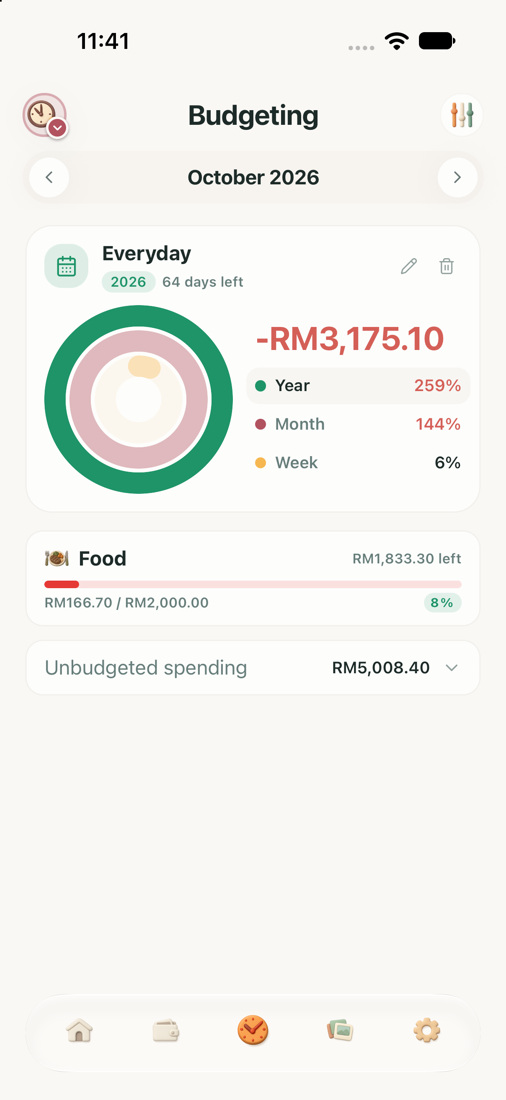
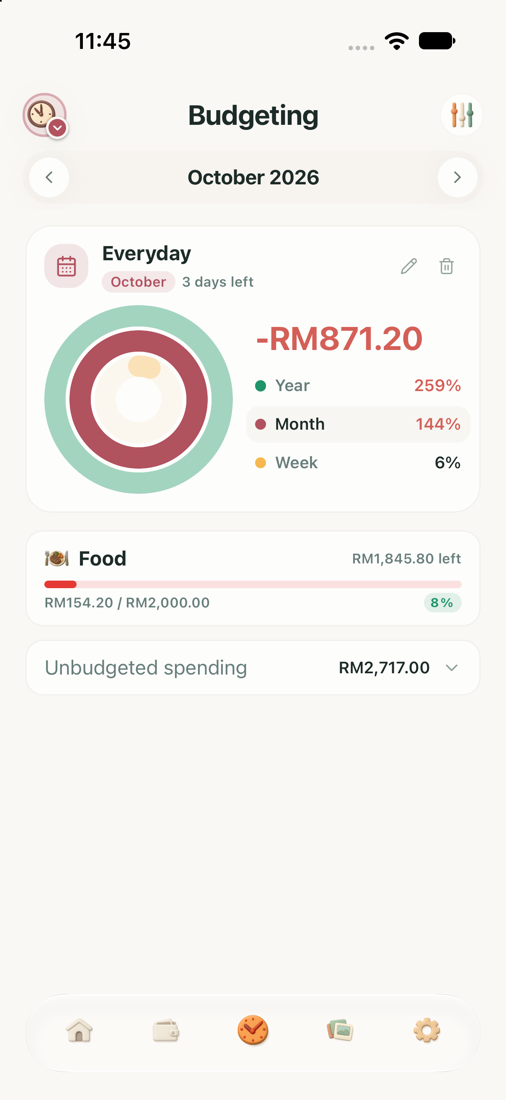
Review: speak each budget line's figures, fill over-budget bars, warn amber on subcategories

diff --git a/apps/mobile/features/budget/screens/BudgetScreen.tsx b/apps/mobile/features/budget/screens/BudgetScreen.tsx
@@ -80,6 +80,12 @@ function leftLabel(remaining: number, settings: UserSettings): string {
     : I18n.t('budget.left', { amount: money(remaining, settings) });
 }
 
+/** How full a line's bar is: its usage, or full once over (a zero-budget
+ *  overspend has a usage ratio of 0). */
+function lineFill(line: BudgetCategoryProgress): number {
+  return line.isOver ? 1 : Math.max(0, Math.min(line.usageRatio, 1));
+}
+
 function ProgressBar({
   ratio,
   color,
@@ -121,8 +127,9 @@ function BudgetChildRow({
   onPress: () => void;
 }) {
   const category = categoriesById.get(line.categoryId);
+  const name = category?.name ?? I18n.t('common.uncategorized');
   const fillColor = line.isOver ? themeColors.error : color;
-  const fillPct = Math.max(0, Math.min(line.usageRatio, 1)) * 100;
+  const fillPct = lineFill(line) * 100;
 
   return (
     <View className="flex-row items-center gap-2">
@@ -132,7 +139,7 @@ function BudgetChildRow({
       <Pressable
         onPress={onPress}
         accessibilityRole="button"
-        accessibilityLabel={category?.name ?? I18n.t('common.uncategorized')}
+        accessibilityLabel={`${name}, ${leftLabel(line.remaining, settings)}`}
         className="relative min-w-0 flex-1 overflow-hidden rounded-xl active:opacity-80"
         style={{ backgroundColor: withColorAlpha(fillColor, 0.08) }}
       >
@@ -152,13 +159,20 @@ function BudgetChildRow({
               parent's icon, which just repeated it on every child row. */}
           {category?.icon ? <CategoryEmoji icon={category.icon} size={13} /> : null}
           <Text variant="caption" numberOfLines={1} className="min-w-0 flex-1 text-foreground">
-            {category?.name ?? I18n.t('common.uncategorized')}
+            {name}
           </Text>
           <Text
             variant="caption"
             numberOfLines={1}
             className="shrink-0 text-right"
-            style={{ color: line.isOver ? themeColors.error : themeColors.mutedForeground }}
+            // Muted while healthy, amber from 80%, red when over.
+            style={{
+              color: line.isOver
+                ? themeColors.error
+                : line.usageRatio >= 0.8
+                  ? usageColor(line.usageRatio, themeColors)
+                  : themeColors.mutedForeground,
+            }}
           >
             {money(line.spent, settings)} / {money(line.budgeted, settings)}
           </Text>
@@ -179,7 +193,7 @@ function BudgetCategoryRow({
   onPressChild,
 }: {
   line: BudgetCategoryProgress;
-  /** Palette color for this category, shared with the breakdown pie. */
+  /** Chart palette colour, by the line's place in the budget. */
   color: string;
   first: boolean;
   categoriesById: Map<string, Category>;
@@ -191,6 +205,7 @@ function BudgetCategoryRow({
   onPressChild: (categoryId: string) => void;
 }) {
   const category = categoriesById.get(line.categoryId);
+  const name = category?.name ?? I18n.t('common.uncategorized');
   const barColor = line.isOver ? themeColors.error : color;
   // isOver wins so a zero-budget overspend (ratio 0) still reads red.
   const healthColor = line.isOver ? themeColors.error : usageColor(line.usageRatio, themeColors);
@@ -204,7 +219,7 @@ function BudgetCategoryRow({
       <Pressable
         onPress={onPress}
         accessibilityRole="button"
-        accessibilityLabel={category?.name ?? I18n.t('common.uncategorized')}
+        accessibilityLabel={`${name}, ${leftLabel(line.remaining, settings)}, ${usagePercentLabel(line.usageRatio)}`}
         className={cn('px-4 py-3 active:bg-secondary/20', line.children.length > 0 && 'pb-2')}
       >
         {/* Emoji inline with the title, then a full-width depletion bar with
@@ -214,7 +229,7 @@ function BudgetCategoryRow({
           <View className="flex-row items-center gap-2">
             <CategoryEmoji icon={category?.icon} size={20} />
             <Text variant="bodyStrong" numberOfLines={1} className="flex-1">
-              {category?.name ?? I18n.t('common.uncategorized')}
+              {name}
             </Text>
             <Text
               variant="caption"
@@ -228,7 +243,7 @@ function BudgetCategoryRow({
           </View>
           <View className="gap-1">
             <ProgressBar
-              ratio={line.usageRatio}
+              ratio={lineFill(line)}
               color={barColor}
               trackColor={withColorAlpha(barColor, 0.14)}
               height={6}

diff --git a/README.md b/README.md
@@ -483,7 +483,7 @@ Traditional Chinese is `zh-Hant`. Device tags for Taiwan, Hong Kong, and Macau s
   **Framing and crop.** The artwork is cover-fitted and centred in the card, so a closed card shows its middle band and opening it reveals the rest. Uploads skip the system crop (always square on iOS) for `CardDesignCropModal`: drag and pinch inside a window the exact width and shape of a card, with dashed lines marking the band a closed card shows. The photo is re-encoded once to apply EXIF rotation and cap it at 2400 px, then the frame is cut from it (`utils/cardDesignCrop.ts`) and saved at most 1200 px wide under the `card-designs` user-asset kind. The library is shared across accounts and reference-counted by the orphan sweep (`accounts.card_design` is in `collectReferencedAssetPaths`), like account logos: an upload no account wears is reclaimed by the next sweep, so "My uploads" holds the designs in use plus any picked since. Deleting an upload from the picker removes only the file: accounts still holding its id resolve to nothing and draw the plain card, and they redraw at once because `useCardDesignAppearance` subscribes to the upload store's revision (`subscribeCustomAssets`, bumped by every save, delete, sweep and restore). It deliberately does not rewrite those accounts, because an account write refreshes the list, which re-seeds the open account editor (losing its unsaved edits) and runs the orphan sweep over the rest of the library. A closed card shows the dashed band; inside a stack only its top 54 points, the name row, peek out, which the crop hint says.
 - **Loans (interest accrual)**: A loan is an account with `type: 'loan'`; the balance is the **principal outstanding**, and repayments are transfers into it. The balance is **not** the sum of its rows: `accountsRepository.getBalances` replaces it with the ledger walk `accrueReducingBalance` (`features/loans/lib/loanMath.ts`), which adds a month's interest at every monthly rest and takes each repayment off after it, so only the part of an instalment that is not interest retires principal. **Both interest models are walked**, flat and reducing alike: a flat contract's instalment carries interest too, and knocking the whole instalment off the principal (what the app did before) read a 5 year flat loan as 15 instalments in after 12 and as settled 7 early. The two models differ only in what the agreement fixes: `flat` fixes the total, so `leftToPay` is total less paid and `interestSaved` is null; `reducing` fixes the rate, so what is left is the live projection and paying ahead saves interest. The walk runs at the **unrounded** rate the agreement's total implies (`loanAccrualRatePercent`, via `contractMonthlyRate`), never the two-decimal `loan_interest_rate` column, because the projection and the walk are both sensitive to that rounding; on a flat loan the stored rate is already the effective one (the flat figure is never stored). It starts at `loanLedgerAnchor`: `loan_ledger_anchor_date` (migration `062`), which the editor sets on a new loan to the date of the last instalment already paid (`LoanQuote.openingBalanceDate`) so every rest falls on the payment day, falling back to `createdAt` for loans saved before the column. A **variable rate** (reducing) loan keeps `loan_rate_changes_json` (`LoanRateChange[]`, read through `loanRateChangesOf`): editing the rate on one that already has interest behind it asks whether the new rate applies **from today** (a base-rate move; the history gains an entry and every rest before it stands) or **from the start** (a correction; the history is cleared). `pendingLoanRateChange` (pure, in `loanMath.ts`) decides, reading a missing rate as 0% so a loan going interest-free is a change like any other; a history left on a loan saved as flat is cleared (`loanRateHistoryIsStale`), since the flat model never asks: its rate is fixed at signing. The editor shows the flat rate's **effective rate** as helper text under the rate field (`accounts.loan.effective_rate_hint`), which is the reducing-balance equivalent regulators quote (Malaysia's BNM moved hire purchase to EIR in 2026).
 - **Savings goals**: A goal is an account with `type: 'goal'` plus the `goal*` columns (target amount required, optional target date/emoji, achievement + archive stamps). Deposits/withdrawals are ordinary transfers; auto-save is a recurring transfer rule targeting the goal. Every balance-sign branch tests `type === 'credit'`, so goals inherit debit/asset semantics everywhere. Derived numbers come from the pure `computeGoalProgress`/`monthlyEquivalentRate` in `features/goals/lib/goalMath.ts`, composed by `useGoals()` (`features/goals/useGoals.ts`). Goals are a dedicated sub-tab of the assets page (`AssetsTab`: Accounts | Goals | Items) rendered by `GoalsScreen` (`features/goals/screens/GoalsScreen.tsx`), sharing the shell's balance-visibility toggle; the gated add button is `AddGoalButton`. `GoalDetail`/`GoalEditor` are root routes. Achievement detection is an AppContext effect that stamps `goalAchievedAt` once (celebration via `GoalCelebrationOverlay`); `setGoalArchived` deactivates auto-save rules on archive. Pro-limited to `FREE_MAX_SAVINGS_GOALS` (non-archived count); goal accounts do not count toward `FREE_MAX_ACCOUNTS`. Archived goals are hidden from `AccountPickerSheet`.
-- **Budgeting**: Weekly, monthly and yearly **expense-only** budgets built from reusable **budget templates** (`budget_templates`/`budget_template_categories`) — a template sets how often it repeats (`period`: `week`, `month` or `year`), a total plus per-root-category allocations, an optional emoji, and a `count_unbudgeted` toggle (whether spend in categories with no line counts toward the period total). Each week, month or year gets a **frozen** budget row (`monthly_budgets`/`monthly_budget_categories`; the table predates periods and keeps its name) copied from a template at creation; editing a template never rewrites already-created budgets, and soft-deleted rows double as **tombstones** so auto-create never resurrects a period the user deleted. **Periods** (`features/budget/lib/budgetPeriods.ts`): a row's `period` column says which, and its `month` column holds the period key — `YYYY-MM-DD` (the week's first day, per `settings.weekStartsOn`) for a week, `YYYY-MM` (a financial month, per the month cycle) for a month, `YYYY` (January–December, whatever the month cycle) for a year. The shapes never collide, and one live row is allowed per period and key (`idx_monthly_budgets_period_key`, migration `071_budget_periods`, which also gave every existing row and template `period = 'month'`). A week budget always covers its key day and the six after it. One made before the user changed the first day of the week keeps its own seven days: the pager shows it on the week its first day falls in (`budgetSlotKey`, titled with the budget's own dates; if two land on one week, the one keyed on it wins), while the widgets and Review find the running budget by its days (`budgetCoveringDay`), and auto-create and back-fill skip any week that shares a day with an existing one (`budgetWeekOverlaps`), so no overlapping week is made. Several periods can run at once (say a weekly food budget and a yearly travel budget). **Auto-create**: on every load, and right after a template of that period is saved, `autoCreateCurrentBudgets` in `AppContext` makes the running week's, month's and year's budget from that period's default template (`pickAutoCreateTemplate`) unless the period has or ever had one. Exactly one template **per period** is the default while that period has any (`budgetTemplatesRepository` re-normalizes after every create, update and delete; a template moved to another period leaves its default flag behind, so it becomes that period's default only when the period had none). Back-fill (offered when creating a template) fills the template's own period from the first expense to the last completed period. All screen/widget numbers come from the pure `buildBudgetSummary` in `features/budget/lib/budgetMath.ts`, valuing spend at `reportingAmount ?? amount` (never drifts with FX) and counting only spend inside the budget's own days. **UI**: the budget view is an **embedded Insights page** (`BudgetPagerView` inside `InsightsScreen`, chosen from the insights type menu, not a Settings tile). There is no period switch: the page pages by **month** (`computeBudgetPagerMonths`: from the first budget of any period or expense to 12 months ahead; the header's month capsule opens the month wheel), and each month page (`buildBudgetMonthPage`) shows every budget that touches the month, drawn as **nested activity-style rings** (thick, with a small empty centre) with the figures beside them: the year outside, the month in the middle, the week inside, each in its own colour (year `success`, month `primary`, week `accent`) and filled by how much of its budget is used (a period without a budget leaves a faint dashed ring). The month is in focus by default (else the week, else the year): its ring is drawn full strength, the others faded, and beside the rings sits only its amount: green while some is left, red with a minus sign once over (screen readers hear "RM580 left" / "RM40 over"), under a header naming it: the template's icon (or a calendar) on a tile tinted with the ring's colour, the budget's name, and a pill in that colour naming its period ("October", "Oct 26 – Nov 1", "2026") with the days left beside it while it runs, and edit and delete. Tapping a ring (hit-tested by distance from the centre, `ringAtDistance` in `features/budget/lib/budgetRings.ts`) or its row in the legend beside them (Year / Month / Week with each percent, the focused row highlighted) focuses that budget; with the week in focus, the month's budgeted weeks appear as date chips to move the inner ring to another week (by default it shows the running week, else the month's latest; a picked week stays on the inner ring while another ring is focused). Below, the focused budget's categories, each a row with its emoji, name and amount left (red when over), a full-width depletion bar in the category's chart colour (red when over; colours follow the budget's own line order, so a line keeps its colour when it goes over and is sorted first), spent / budgeted and a usage badge (green, amber from 80%, red when over), with its subcategory lines as tinted one-line pills under it whose fill is the progress; each opens its transactions. Unbudgeted spending is folded into one total row that expands. A month, week or year with a template of its period but no budget gets a dashed "No budget for …" row (for weeks, the running week when it is in the month, else the month's first); a month nothing touches keeps the classic empty state. Week titles name the years when the week is outside this year or spans two. The template editor's Repeats switch sets the period (with a hint such as "A new budget starts every Monday") and relabels the total, the back-fill and the count-unbudgeted copy; the templates screen groups templates by period, each group with its own default; the template picker on the page offers only templates of the shown period. Template/period/allocation editors are root-stack routes (`BudgetTemplateEditor`, `BudgetPeriodEditor`, `BudgetCategoryAllocation`, `SettingsBudgetTemplates`). Root allocations must sum exactly to the total; a root's subcategory breakdown is optional and may be **partial** (the unassigned rest stays on the parent line, which keeps its full amount and rolled-up spend). Save is blocked only when the subcategories exceed their parent (`childAllocationExceedsParent`). Pro-limited to `FREE_MAX_BUDGET_TEMPLATES` templates across all periods (the page's Create template button checks it too); two home-screen widgets (`budget_ring`, `budget_breakdown`) show the running month's budget, else the week's, else the year's, and count today in their days left, as the page does. Review's pace card compares a week, month or year with the budget of the same period. The Web Dashboard knows monthly budgets only: the phone sends it monthly templates and month budgets alone (`services/webDashboardBudgets.ts`), and its edits can only make or change monthly ones. Manage via `useApp()` budget ops.
+- **Budgeting**: Weekly, monthly and yearly **expense-only** budgets built from reusable **budget templates** (`budget_templates`/`budget_template_categories`) — a template sets how often it repeats (`period`: `week`, `month` or `year`), a total plus per-root-category allocations, an optional emoji, and a `count_unbudgeted` toggle (whether spend in categories with no line counts toward the period total). Each week, month or year gets a **frozen** budget row (`monthly_budgets`/`monthly_budget_categories`; the table predates periods and keeps its name) copied from a template at creation; editing a template never rewrites already-created budgets, and soft-deleted rows double as **tombstones** so auto-create never resurrects a period the user deleted. **Periods** (`features/budget/lib/budgetPeriods.ts`): a row's `period` column says which, and its `month` column holds the period key — `YYYY-MM-DD` (the week's first day, per `settings.weekStartsOn`) for a week, `YYYY-MM` (a financial month, per the month cycle) for a month, `YYYY` (January–December, whatever the month cycle) for a year. The shapes never collide, and one live row is allowed per period and key (`idx_monthly_budgets_period_key`, migration `071_budget_periods`, which also gave every existing row and template `period = 'month'`). A week budget always covers its key day and the six after it. One made before the user changed the first day of the week keeps its own seven days: the pager shows it on the week its first day falls in (`budgetSlotKey`, titled with the budget's own dates; if two land on one week, the one keyed on it wins), while the widgets and Review find the running budget by its days (`budgetCoveringDay`), and auto-create and back-fill skip any week that shares a day with an existing one (`budgetWeekOverlaps`), so no overlapping week is made. Several periods can run at once (say a weekly food budget and a yearly travel budget). **Auto-create**: on every load, and right after a template of that period is saved, `autoCreateCurrentBudgets` in `AppContext` makes the running week's, month's and year's budget from that period's default template (`pickAutoCreateTemplate`) unless the period has or ever had one. Exactly one template **per period** is the default while that period has any (`budgetTemplatesRepository` re-normalizes after every create, update and delete; a template moved to another period leaves its default flag behind, so it becomes that period's default only when the period had none). Back-fill (offered when creating a template) fills the template's own period from the first expense to the last completed period. All screen/widget numbers come from the pure `buildBudgetSummary` in `features/budget/lib/budgetMath.ts`, valuing spend at `reportingAmount ?? amount` (never drifts with FX) and counting only spend inside the budget's own days. **UI**: the budget view is an **embedded Insights page** (`BudgetPagerView` inside `InsightsScreen`, chosen from the insights type menu, not a Settings tile). There is no period switch: the page pages by **month** (`computeBudgetPagerMonths`: from the first budget of any period or expense to 12 months ahead; the header's month capsule opens the month wheel), and each month page (`buildBudgetMonthPage`) shows every budget that touches the month, drawn as **nested activity-style rings** (thick, with a small empty centre) with the figures beside them: the year outside, the month in the middle, the week inside, each in its own colour (year `success`, month `primary`, week `accent`) and filled by how much of its budget is used (a period without a budget leaves a faint dashed ring). The month is in focus by default (else the week, else the year): its ring is drawn full strength, the others faded, and beside the rings sits only its amount: green while some is left, red with a minus sign once over (screen readers hear "RM580 left" / "RM40 over"), under a header naming it: the template's icon (or a calendar) on a tile tinted with the ring's colour, the budget's name, and a pill in that colour naming its period ("October", "Oct 26 – Nov 1", "2026") with the days left beside it while it runs, and edit and delete. Tapping a ring (hit-tested by distance from the centre, `ringAtDistance` in `features/budget/lib/budgetRings.ts`) or its row in the legend beside them (Year / Month / Week with each percent, the focused row highlighted) focuses that budget; with the week in focus, the month's budgeted weeks appear as date chips to move the inner ring to another week (by default it shows the running week, else the month's latest; a picked week stays on the inner ring while another ring is focused). Below, the focused budget's categories, each a row with its emoji, name and amount left (red when over), a full-width depletion bar in a chart-palette colour picked by the line's place in the budget (red and full when over; the colour does not change when an over line is sorted first), spent / budgeted and a usage badge (green, amber from 80%, red when over), with its subcategory lines as tinted one-line pills under it whose fill is the progress (their spent / budgeted amber from 80%, red when over); each opens its transactions. Unbudgeted spending is folded into one total row that expands. A month, week or year with a template of its period but no budget gets a dashed "No budget for …" row (for weeks, the running week when it is in the month, else the month's first); a month nothing touches keeps the classic empty state. Week titles name the years when the week is outside this year or spans two. The template editor's Repeats switch sets the period (with a hint such as "A new budget starts every Monday") and relabels the total, the back-fill and the count-unbudgeted copy; the templates screen groups templates by period, each group with its own default; the template picker on the page offers only templates of the shown period. Template/period/allocation editors are root-stack routes (`BudgetTemplateEditor`, `BudgetPeriodEditor`, `BudgetCategoryAllocation`, `SettingsBudgetTemplates`). Root allocations must sum exactly to the total; a root's subcategory breakdown is optional and may be **partial** (the unassigned rest stays on the parent line, which keeps its full amount and rolled-up spend). Save is blocked only when the subcategories exceed their parent (`childAllocationExceedsParent`). Pro-limited to `FREE_MAX_BUDGET_TEMPLATES` templates across all periods (the page's Create template button checks it too); two home-screen widgets (`budget_ring`, `budget_breakdown`) show the running month's budget, else the week's, else the year's, and count today in their days left, as the page does. Review's pace card compares a week, month or year with the budget of the same period. The Web Dashboard knows monthly budgets only: the phone sends it monthly templates and month budgets alone (`services/webDashboardBudgets.ts`), and its edits can only make or change monthly ones. Manage via `useApp()` budget ops.
 - **Split bills & Settle Up**: Splits live on `transactionSplitsTable` (per-transaction). The `SettleUp` screen has two underline tabs — **Person** and **Transactions** — over all positive, non-self splits, with paid shares shown in muted rows and only unpaid shares counted in outstanding totals. By-person rolls up via `aggregateSettleUpByPerson` (grouped by trimmed/case-folded name); by-transaction rolls up via `aggregateSettleUpByTransaction` (one entry per bill, each carrying every person's share). Both live in `features/transactions/lib/settleUp.ts` and total in the reporting currency via each parent's frozen `fxRate`. Tapping a person opens `SettleUpPerson` (itemized bills); tapping a bill opens `SettleUpTransaction` (each person's share). Both full-page root screens keep paid history visible; unpaid shares support editable payback account, mark-paid, delete-request, and share. Share opens `SplitReceiptShareModal`, which previews a fixed-light `SplitReceiptCard` (the shipped app icon beside a Money2Time wordmark in the brand's fixed warm split, big QR, generic `ReceiptContent`: title + optional date subtitle + itemized lines + total, no footer) and captures it to a PNG via Skia's `makeImageFromView` (lazily imported) → `expo-sharing` for a cross-platform image share, falling back to a plain-text `buildReceiptText` receipt if capture fails. Each share writes its PNG under a new name from `receiptShareFileName` (title slug + timestamp) and deletes it afterwards: iOS and the receiving apps cache a shared file by its URL, so one fixed path sent the first person's receipt to everyone shared after them. **That capture does not clip the way the screen does on Android**: it walks the view tree itself (TextureView and SurfaceView children need their own path) instead of drawing the root, so it never reaches `ReactViewGroup.dispatchDraw()` and has to replay the `overflow: hidden` clip by hand. Skia 2.2.12 replayed it by reflecting for `dispatchOverflowDraw`, which React Native dropped in 0.81; the lookup throws, the throw is only logged, and every clipped child drew unclipped, which put the whole category-icon sprite atlas across the shared receipt (the app's own screens were fine, since they draw normally). Skia 2.12.0 fixed it upstream (the app patched 2.2.12 until the Expo SDK 58 upgrade), and `__tests__/patches/skiaOverflowClip.test.ts` reads the installed module so a version that loses the fix fails loudly rather than silently shipping the wrong pixels. **Anything new put on this card that relies on a clip (an atlas cell, a rounded image, a cropped avatar) is only as correct as that fix.** The user attaches their own payment QR (settings `paymentQrUri`, stored via the `payment-qr` `userAssets` kind). `useSettleUpSummary` / `useSettleUpByTransaction` wrap the two aggregations. The split editor (`SplitBillModal`, opened from the transaction editor's numpad toolbar) is a **pushed root screen** (`SplitBill`): the editor publishes its live split draft + callbacks through `context/SplitBillSession.tsx` and `SplitBillScreen` consumes them, mapping Done/Cancel (incl. swipe-back via `beforeRemove`) onto the editor's commit/discard. `SplitBillModal` renders bare in `presentation="page"` mode; it autocompletes friend names from past splits (`recentSplitPersonNames`). Reached from Settings → "Who owes you".
 - **Split by Item (itemized receipt split)**: Scan (or hand-enter) a receipt's line items and split them among people. Step 1 is items only (name + amount) plus an **"apply tax/service %"** stepper (defaults to 10%, like Split Bill's adjustment control) whose Apply **multiplies the item amounts in place** — there is no separate tax field; the receipt total is just the sum of items. Step 2 sets **how many people** are splitting (a count stepper; unnamed people auto-label **"Person A", "Person B", …**, a custom name is optional) and assigns each item to its host(s); a shared item splits evenly among its people. Step 3 summarizes per-person totals (no payback-account picker — payback defaults to the settings default). The itemized detail lives on its **own tables** (`receipt_splits` header + `receipt_split_items` + `receipt_split_item_shares`, one live header per transaction; header holds only currency/merchant/date/source/image — item `line_total`s are tax-inclusive) as the source of truth; on save the computed per-person totals are written as ordinary `transactionSplitsTable` **bridge rows** (unnamed people materialized as "Person A"…), so all Settle Up machinery works unchanged. All math is the pure `computeReceiptSplit` in `features/transactions/lib/receiptSplitMath.ts` (integer cents, largest-remainder, odd cents to the self share; groups by an opaque per-person key so two unnamed people never collide; Σ per-person ≡ item subtotal). The 3-step editor (`ReceiptSplitScreen`: Items → Assign → Summary) is a root route launched via the `receiptSplitBridge` module (payload never rides params); entry points: the scan-ready banner's "Split by item" chip (quick scans that parsed ≥2 items), split-intent scans (`startScan('split')` → Worker `mode: 'itemized'` → banner opens the editor directly), the add-action sheet's Split tab ("Scan to split"), the Settle Up empty-state CTA (scan or manual; scanning returns to the home tab so its progress banner shows), and the "Itemized receipt" row on `SettleUpTransaction` — shown **only** for bills that already have itemized detail (a plain Split Bill can't be converted); **paid rows freeze** on re-edit. Manual entry needs no scan/quota and works offline. The Settle Up **share receipt** lists each person's items as bullet points (`receiptSplitShare.personItemNames`). Editing saves via `updateTransactionReceiptSplit` (replace-on-save detail + bridge-row rewrite); deleting the parent cascades; backup round-trips the three tables.
 - **App Lock**: Biometric gate via `services/biometricAuth.ts`, configured in `AppLockScreen`; settings `biometricLockEnabled` / `biometricLockDelaySeconds`.
